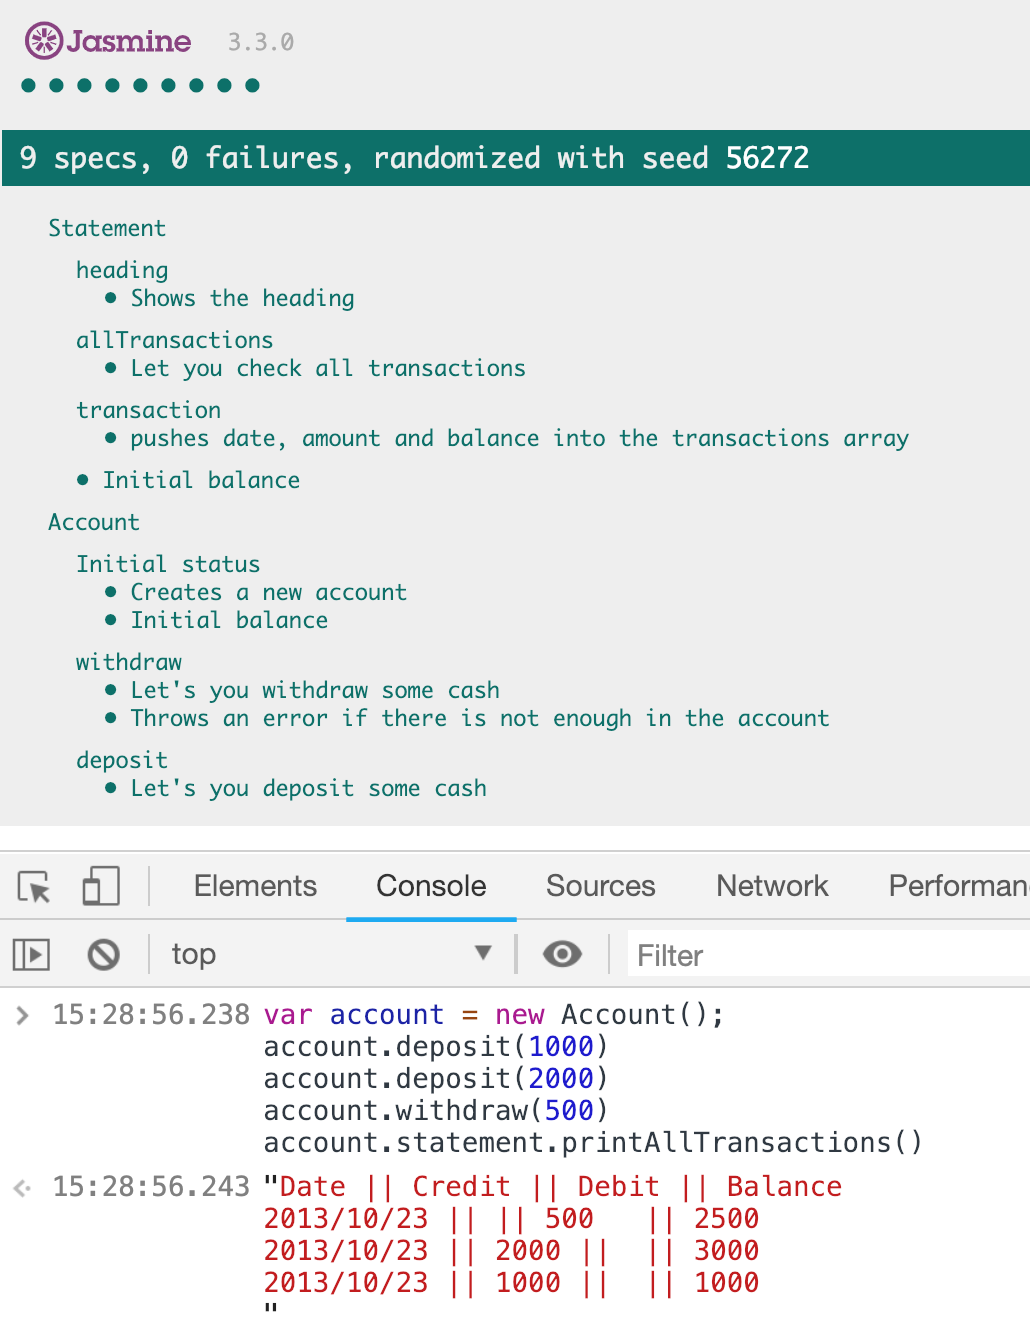
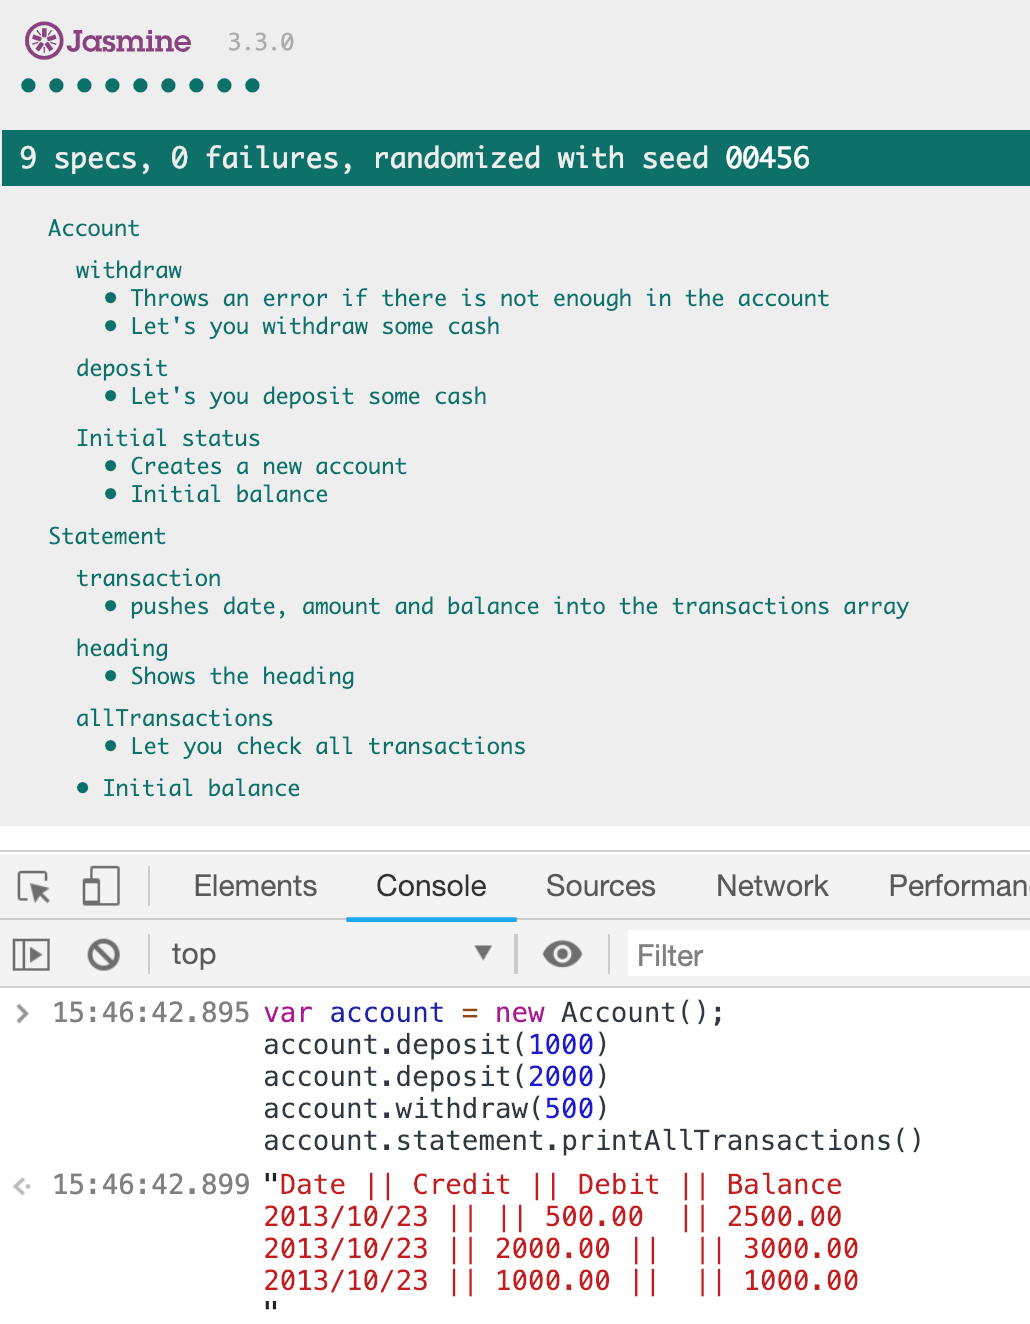
converted to float

diff --git a/src/Statement.js b/src/Statement.js
@@ -9,7 +9,7 @@ Statement.prototype.heading = function () {
 Statement.prototype.transaction = function (amount, balance) {
   var date = new Date();
   var transactionDate = `${date.getFullYear()}/${date.getMonth() + 1}/${date.getDate()}`
-  this._transactions.unshift([transactionDate, amount, balance]);
+  this._transactions.unshift([transactionDate, amount.toFixed(2), balance.toFixed(2)]);
 }
 
 Statement.prototype.printAllTransactions = function (){
@@ -18,7 +18,7 @@ Statement.prototype.printAllTransactions = function (){
     if(this._transactions[i][1] > 0){
       string += `${this._transactions[i][0]} || ${this._transactions[i][1]} ||  || ${this._transactions[i][2]}` + '\n';
     } else {
-      string += `${this._transactions[i][0]} || || ${this._transactions[i][1] * -1}   || ${this._transactions[i][2]}` + '\n';
+      string += `${this._transactions[i][0]} || || ${(this._transactions[i][1] * -1).toFixed(2)}  || ${this._transactions[i][2]}` + '\n';
     }
   }
   return this.heading() + '\n' + string

diff --git a/spec/StatementSpec.js b/spec/StatementSpec.js
@@ -23,7 +23,7 @@ describe('heading', function() {
   describe('transaction', function() {
    it('pushes date, amount and balance into the transactions array', function(){
      statement.transaction(1000,1000)
-     expect(statement._transactions).toEqual([ [ '2013/10/23', 1000, 1000 ] ]);
+     expect(statement._transactions).toEqual([ [ '2013/10/23', '1000.00', '1000.00' ] ]);
    });
   });
 
@@ -31,7 +31,7 @@ describe('heading', function() {
    it('Let you check all transactions', function(){
      statement.transaction(1000,1000)
      expect(statement.printAllTransactions()).toEqual('Date || Credit || Debit || Balance' + '\n'
-     + '2013/10/23 || 1000 ||  || 1000' + '\n');
+     + '2013/10/23 || 1000.00 ||  || 1000.00' + '\n');
    });
 
   });
